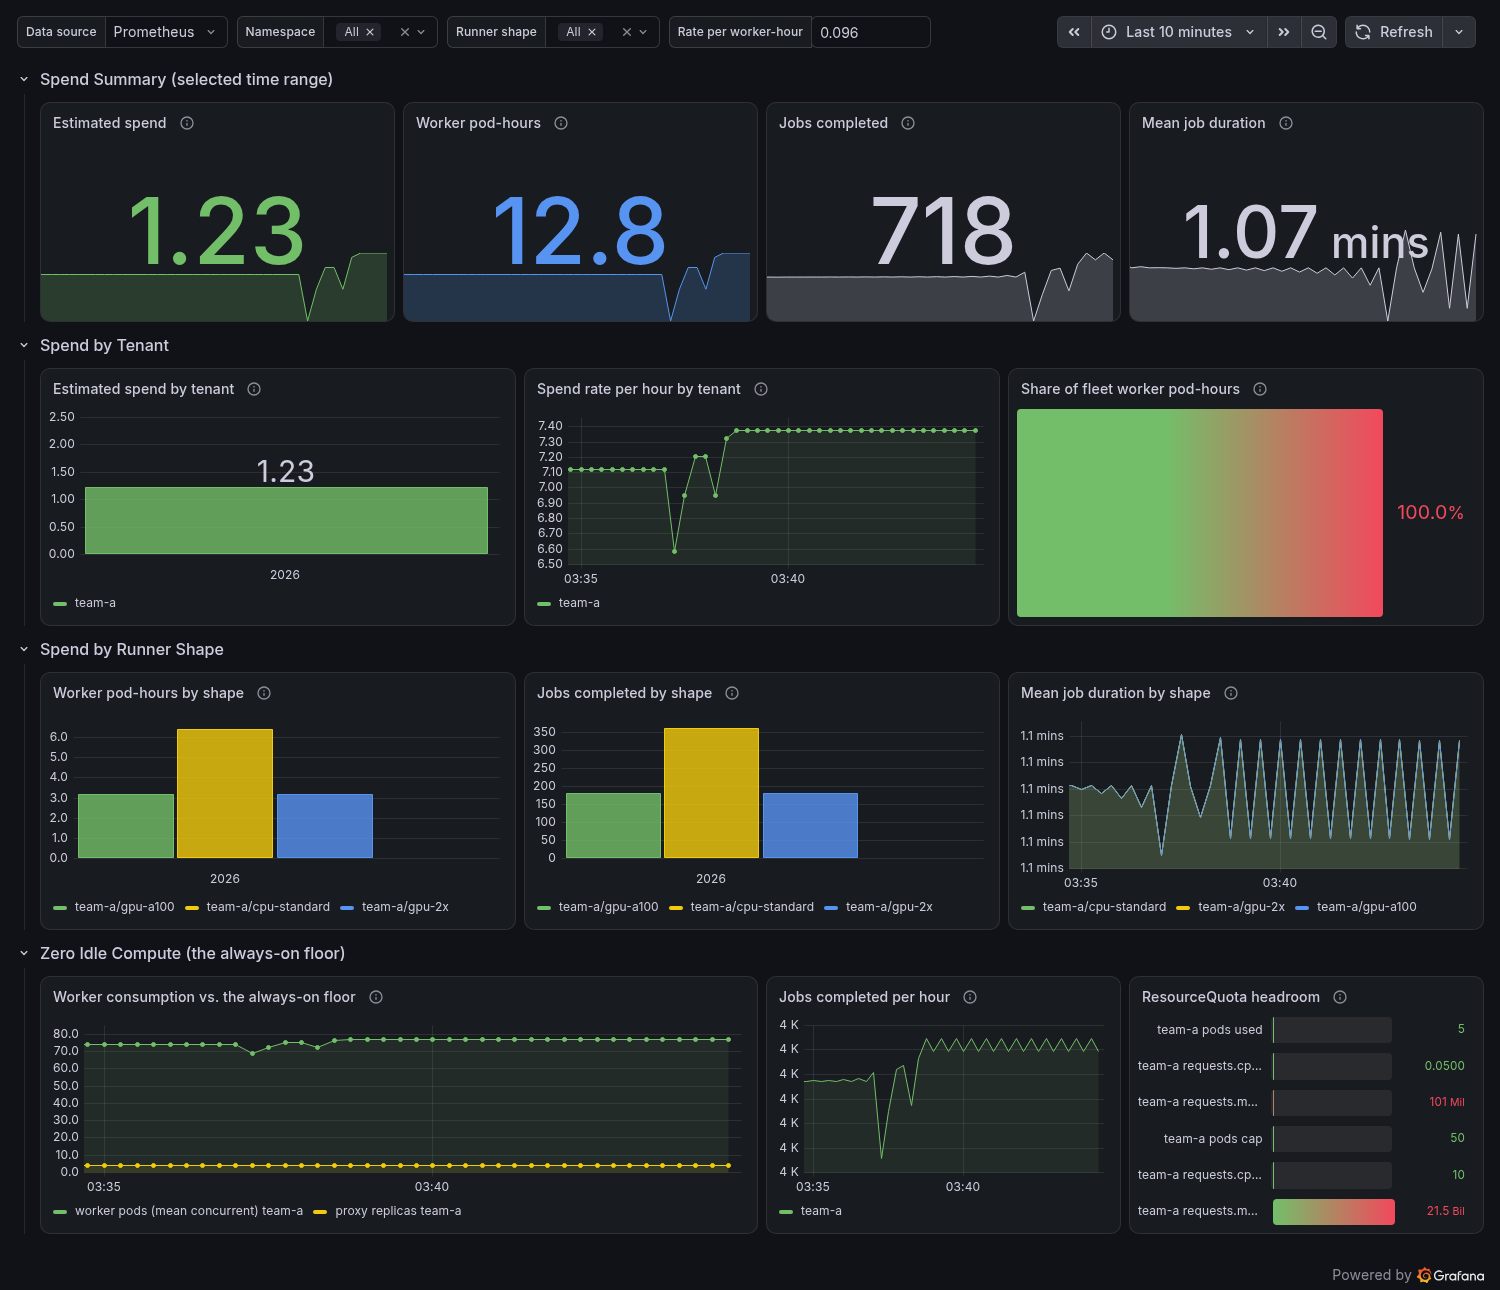
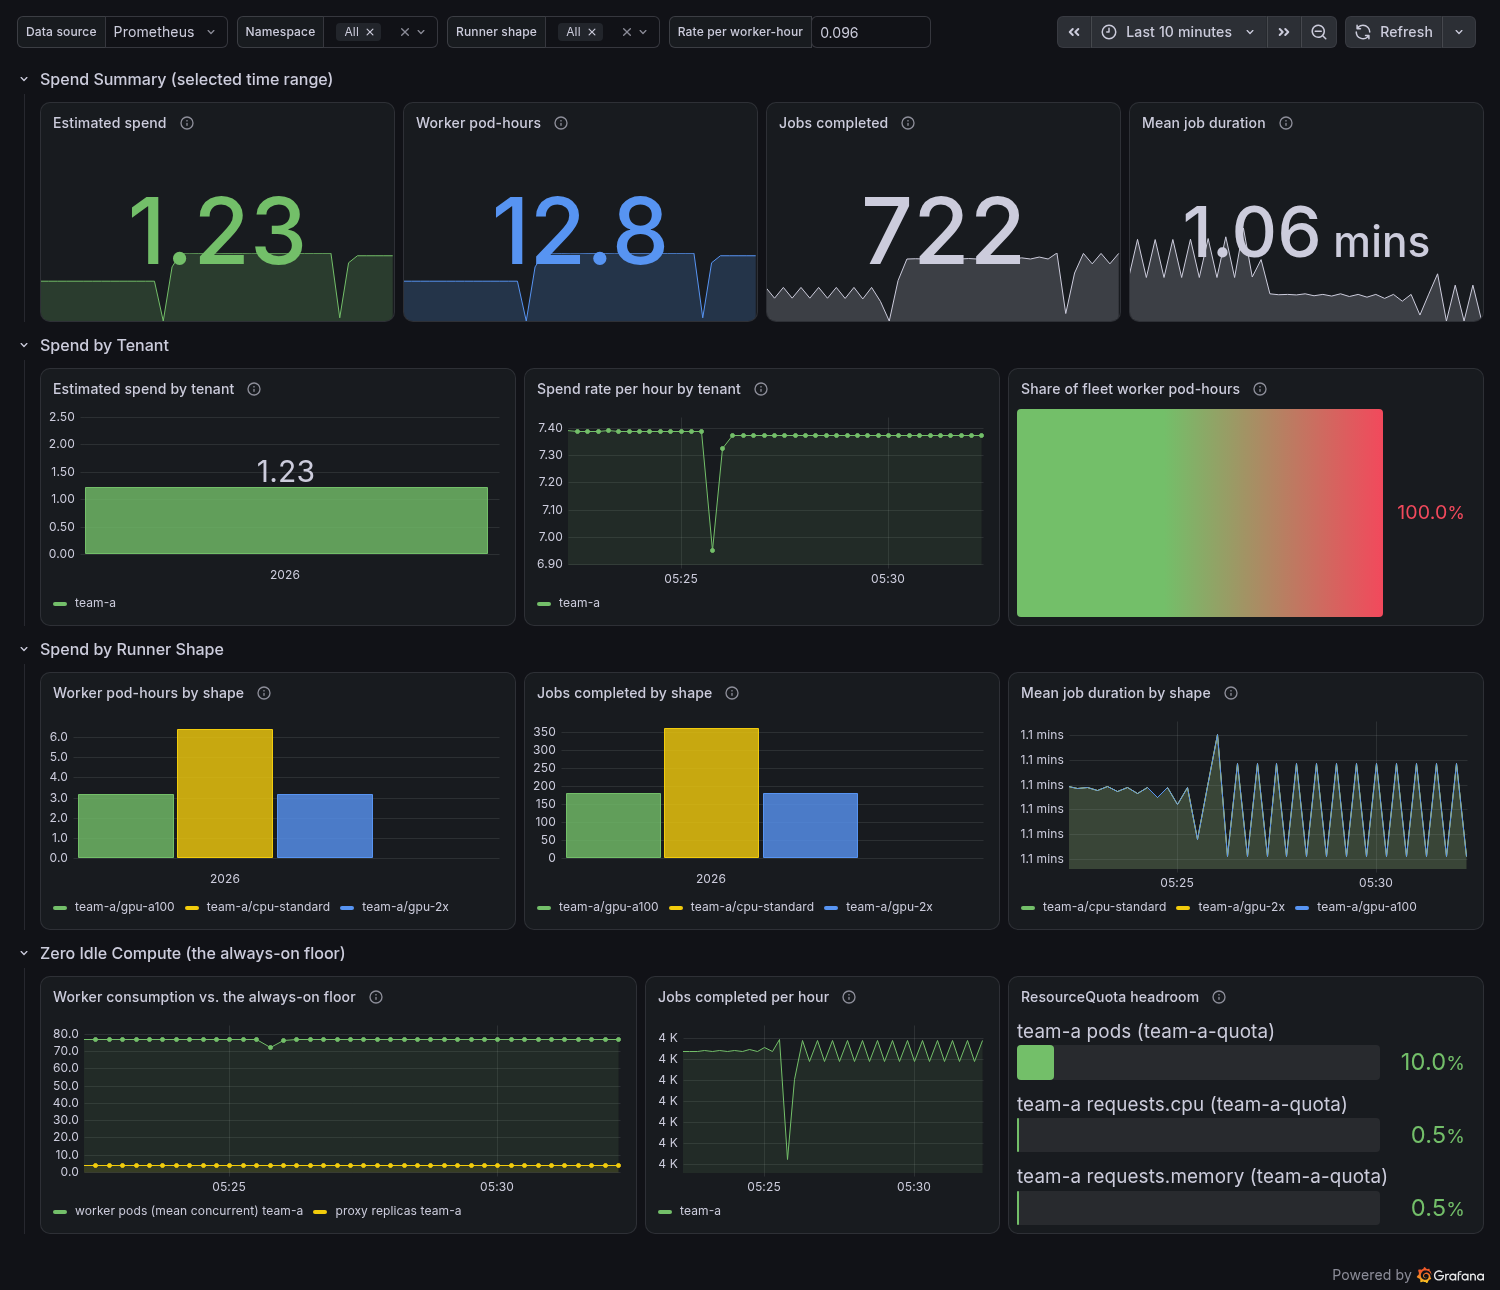
fix(monitoring): make the quota panel readable and the variable pass correct
Review findings on the budget dashboard.

The ResourceQuota panel put six series on one linear axis: pods, cores
and bytes together, used and cap together. Measured live, used
{5, 0.05, 100663296} against hard {50, 10, 21474836480}, so five of six
bars were hairlines and the only filled bar was a cap rather than a
usage. It is now one ratio in percent, min 0, max 100, thresholds at
75/90, and the doc sentence describes what it shows.

The join is ignoring(type), not on(namespace, resource). The latter
collapses the resourcequota label, so a namespace holding two
ResourceQuota objects makes the right-hand side ambiguous and the panel
errors outright; measured on a two-quota namespace, on(...) returns
'found duplicate series for the match group' where ignoring(type)
returns one series per quota object. Keeping that label is also why the
legend names it: without it two quota objects render two bars both
reading '<ns> pods'. Panel widened 6->8 to fit the longer legend, taking
the columns from the worker-vs-floor panel; every row still sums to 24.

Over quota reads above 100 rather than erroring: measured 200% on a
namespace with two pods under a pods=1 quota, so max=100 clips the bar
full and red rather than suppressing the signal.

promqlcheck: the undeclared-variable finding was firing on Grafana's own
built-ins, which never appear in templating.list and never need to, so
it named a cause that cannot be true and invited inventing a fake
[…]

diff --git a/devtools/monitoring/promqlcheck/main.go b/devtools/monitoring/promqlcheck/main.go
@@ -248,42 +248,84 @@ func checkDashboard(path string, raw []byte) ([]string, int, error) {
 // grafanaVar matches one variable reference in either spelling Grafana accepts.
 var grafanaVar = regexp.MustCompile(`\$(?:\{(\w+)\}|(\w+))`)
 
-// builtinVars are Grafana's own interval and range variables. Each expands to a
-// duration at render time and is only ever written in a range selector, which is
-// syntactic position, so each needs a stand-in to parse. The value is arbitrary:
-// the check is that the surrounding expression is well formed, not that the
-// window is a particular length.
-var builtinVars = map[string]string{
+// builtinDurations are the Grafana built-ins that expand to a duration. Each is
+// written in a range selector, which is syntactic position, so each needs a
+// stand-in to parse. The value is arbitrary: the check is that the surrounding
+// expression is well formed, not that the window is a particular length.
+//
+// Every other `__`-prefixed name is a built-in too — `$__interval_ms`, `$__from`,
+// `$__to` and friends expand to a number, and appear in idioms like
+// `rate(x[$__interval]) * $__interval_ms / 1000`. They parse where they are
+// written, so they need no stand-in; what they need is exemption from the
+// undeclared-variable finding, since Grafana supplies them and no dashboard
+// declares them in templating.list.
+var builtinDurations = map[string]string{
 	"__range":         "5m",
 	"__interval":      "5m",
 	"__rate_interval": "5m",
 }
 
+// isBuiltin reports whether name is supplied by Grafana rather than by the
+// dashboard. The `__` prefix is Grafana's own reserved namespace, so this stays
+// correct as they add more, which a fixed list would not.
+func isBuiltin(name string) bool { return strings.HasPrefix(name, "__") }
+
 // dashboardVars returns the substitutions a dashboard's own templating declares,
 // and the set of every name it declares at all.
 //
-// The two differ, and the gap is the point: a textbox or constant carries a
-// literal that reaches scalar position and must be substituted, while a query
-// variable resolves to a label value and parses as written. Both are declared, so
-// both are exempt from the undeclared-variable finding; only the first is
-// rewritten.
+// The two differ, and the gap is the point: the literal-valued types reach scalar
+// or range position and must be substituted, while a query variable resolves to a
+// label value and parses as written. Both are declared, so both are exempt from
+// the undeclared-variable finding; only the first is rewritten.
+//
+// `interval` is the one worth naming: it exists to fill a range selector, so it is
+// what a dashboard needing a variable window reaches for first. Its value and
+// `custom`'s are comma-separated option lists, and Grafana defaults to the first,
+// so that is what stands in.
 func dashboardVars(d dashboard) (map[string]string, map[string]bool) {
-	vars := make(map[string]string, len(builtinVars))
-	for k, v := range builtinVars {
+	vars := make(map[string]string, len(builtinDurations))
+	for k, v := range builtinDurations {
 		vars[k] = v
 	}
 	declared := make(map[string]bool, len(d.Templating.List))
 	for _, v := range d.Templating.List {
 		declared[v.Name] = true
-		if v.Type != "textbox" && v.Type != "constant" {
+		if !literalVarTypes[v.Type] {
 			continue
 		}
-		var literal string
-		if json.Unmarshal(v.Query, &literal) == nil && literal != "" {
+		if literal := firstOption(v.Query); literal != "" {
 			vars[v.Name] = literal
 		}
 	}
 	return vars, declared
+}
+
+// literalVarTypes are the templating types whose value is a literal the
+// expression needs, rather than a label value it already parses as.
+var literalVarTypes = map[string]bool{
+	"textbox":  true,
+	"constant": true,
+	"custom":   true,
+	"interval": true,
+}
+
+// firstOption reads a template variable's default out of the two shapes Grafana
+// writes it in — a bare string, or an object carrying its own `query` key — and
+// takes the first entry of a comma-separated option list, which is what Grafana
+// selects when nothing else is stored.
+func firstOption(raw json.RawMessage) string {
+	var literal string
+	if json.Unmarshal(raw, &literal) != nil {
+		var obj struct {
+			Query string `json:"query"`
+		}
+		if json.Unmarshal(raw, &obj) != nil {
+			return ""
+		}
+		literal = obj.Query
+	}
+	first, _, _ := strings.Cut(literal, ",")
+	return strings.TrimSpace(first)
 }
 
 // substituteVars rewrites the variable references in expr with parse-valid
@@ -293,6 +335,13 @@ func dashboardVars(d dashboard) (map[string]string, map[string]bool) {
 // reaches the parser carrying it and fails there too. Substituting a default for
 // one would let a panel referencing a variable that does not exist parse clean
 // and then render an error, which is the state this whole check exists to catch.
+//
+// The match runs over the raw expression with no position awareness, so what it
+// detects is "a $word here we could not attribute" rather than strictly an
+// undeclared variable: a literal `$` inside a quoted label value is reported too.
+// That is the intended trade. A misspelled variable lands inside a quoted matcher
+// (namespace=~"$namespaec"), which is precisely where the check has to reach, and
+// making it position-aware would exempt the case it exists for.
 func substituteVars(expr string, vars map[string]string, declared map[string]bool) (string, []string) {
 	var unknown []string
 	seen := map[string]bool{}
@@ -301,7 +350,7 @@ func substituteVars(expr string, vars map[string]string, declared map[string]boo
 		if v, ok := vars[name]; ok {
 			return v
 		}
-		if !declared[name] && !seen[name] {
+		if !declared[name] && !isBuiltin(name) && !seen[name] {
 			seen[name] = true
 			unknown = append(unknown, name)
 		}

diff --git a/devtools/monitoring/promqlcheck/main_test.go b/devtools/monitoring/promqlcheck/main_test.go
@@ -291,15 +291,70 @@ func TestDashboardVariablesAreSubstituted(t *testing.T) {
 
 // The substitution must not become a way for a malformed expression to pass: the
 // stand-in goes in, and what surrounds it still has to parse.
+//
+// Two things make the assertion real, and both were needed. It is on the error's
+// CONTENT, because an unsubstituted `$__range` also fails to parse and a test
+// accepting any error would pass with substitution removed entirely. And the
+// malformation is placed AFTER the variable: the parser reports its first error,
+// so a broken paren ahead of the variable is reported either way and the content
+// assertion cannot discriminate. Trailing parens put the variable first, so
+// removing the substitution changes the reported error to `'$'` and this fails.
 func TestSubstitutionStillParsesTheRest(t *testing.T) {
-	body := strings.Replace(varDashboard, "sum(increase(", "sum by ((((increase(", 1)
+	body := strings.Replace(varDashboard, `/ 3600 * $rate`, `/ 3600 * $rate))))`, 1)
 	findings, _ := runDashboard(t, body)
 	for _, f := range findings {
-		if strings.Contains(f, "expr does not parse") {
-			return
+		if !strings.Contains(f, "expr does not parse") {
+			continue
 		}
+		if strings.Contains(f, "'$'") {
+			t.Fatalf("the parse reached a variable, so substitution did not run: %s", f)
+		}
+		return
 	}
 	t.Fatalf("a malformed expression around a substituted variable should still fail; got %v", findings)
+}
+
+// Grafana supplies the `__`-prefixed variables and no dashboard declares them, so
+// reporting one as undeclared names a cause that cannot be true and invites the
+// repair of inventing a templating entry to satisfy the gate. The numeric ones
+// need no stand-in: they parse where they are written.
+func TestGrafanaBuiltinsAreNotReportedUndeclared(t *testing.T) {
+	for _, expr := range []string{
+		`rate(thing_total[$__interval]) * $__interval_ms / 1000`,
+		`sum(thing_total{from="$__from",to="$__to"})`,
+		`sum(increase(thing_total[$__range])) / $__range_s`,
+	} {
+		t.Run(expr, func(t *testing.T) {
+			body := strings.Replace(varDashboard,
+				`sum(increase(thing_seconds_sum{namespace=~"$namespace"}[$__range])) / 3600 * $rate`,
+				strings.ReplaceAll(expr, `"`, `"`), 1)
+			findings, _ := runDashboard(t, body)
+			if len(findings) != 0 {
+				t.Fatalf("a Grafana built-in should be clean, got %v", findings)
+			}
+		})
+	}
+}
+
+// interval is the type a dashboard reaches for when it wants a variable window,
+// and custom is its scalar sibling; both store a comma-separated option list that
+// Grafana defaults to the first of. constant is spelled two ways, a bare string
+// and an object carrying its own query key.
+func TestLiteralVariableTypesAreSubstituted(t *testing.T) {
+	for name, tc := range map[string]struct{ decl, expr string }{
+		"interval":        {`{"name":"iv","type":"interval","query":"1m,5m,1h"}`, `rate(thing_total[$iv])`},
+		"custom":          {`{"name":"cv","type":"custom","query":"0.096,0.048"}`, `sum(thing_total) * $cv`},
+		"constant object": {`{"name":"kv","type":"constant","query":{"query":"0.5"}}`, `sum(thing_total) * $kv`},
+	} {
+		t.Run(name, func(t *testing.T) {
+			body := `{"title":"T","templating":{"list":[` + tc.decl + `]},` +
+				`"panels":[{"title":"P","targets":[{"refId":"A","expr":"` + tc.expr + `"}]}]}`
+			findings, _ := runDashboard(t, body)
+			if len(findings) != 0 {
+				t.Fatalf("a declared literal variable should substitute, got %v", findings)
+			}
+		})
+	}
 }
 
 // A variable the dashboard declares nowhere is the defect the substitution could

diff --git a/docs/operations/observability-dashboards.md b/docs/operations/observability-dashboards.md
@@ -180,6 +180,7 @@ The GMC comes from this dashboard's own scrape; `agc` and `proxy` need the per-t
 
 For the [budget owner](personas.md#budget-owner), who owns the spend and usually cannot read the cluster at all.
 Filtered by `$namespace` and `$runner_group`, and priced by a `$rate` textbox.
+It ships with auto-refresh **off**, where the other two use `30s`: the default window is seven days, and a spend figure over that range does not change meaningfully between two thirty-second polls.
 
 Every panel reads one metric: `actions_gateway_job_duration_seconds`.
 That series is worker pod wall time (creation to the last container finishing) on **both** acquisition tiers, which is the span [Appendix F §F.1](../design/appendix-f-cost-model.md#worker-pod-dominant-cost) bills against.
@@ -205,6 +206,10 @@ Every panel here uses `$__range`, so the time picker *is* the billing window: sw
 
 **Row 2 — Spend by Tenant**
 
+> **The comparison panels run instant queries**, which is where this dashboard departs from its two neighbours.
+> They are both panels in this row, both bar charts in Row 3, and the bar gauge in Row 4: each reduces the whole range to one number per tenant or per resource, so a range query would plot one bar per scrape and the comparison the panel exists to make would be unreadable.
+> The time-series panels stay range queries, because a trend is what they are for.
+
 | Panel | Query | Visualization |
 |-------|-------|---------------|
 | Estimated spend by tenant | `sum by (namespace) (increase(actions_gateway_job_duration_seconds_sum[$__range])) / 3600 * $rate` | Bar chart, **instant**. Namespace is tenant, which is why this lines up with an `aggregate=namespace` allocation report with no extra wiring |
@@ -218,23 +223,19 @@ A shape here is therefore whatever provisioned the worker, on either protocol.
 
 | Panel | Query | Visualization |
 |-------|-------|---------------|
-| Worker pod-hours by shape | `sum by (namespace, runner_group) (increase(actions_gateway_job_duration_seconds_sum[$__range])) / 3600` | Bar chart. Hours rather than currency, per the rate spread above |
-| Jobs completed by shape | the `…_count` counterpart | Bar chart. Beside the pod-hours bars it separates the two ways a shape's spend grows: more jobs, or slower jobs |
+| Worker pod-hours by shape | `sum by (namespace, runner_group) (increase(actions_gateway_job_duration_seconds_sum[$__range])) / 3600` | Bar chart, **instant**. Hours rather than currency, per the rate spread above |
+| Jobs completed by shape | the `…_count` counterpart | Bar chart, **instant**. Beside the pod-hours bars it separates the two ways a shape's spend grows: more jobs, or slower jobs |
 | Mean job duration by shape | `rate(…_sum[5m]) / rate(…_count[5m])`, both `sum by (namespace, runner_group)` | Time series. A shape drifting upward buys less for the same money; a large divergence from a cost tool's pod-hours for that shape usually means oversized resource requests ([right-sizing](../design/appendix-f-cost-model.md#worker-resource-right-sizing)) |
 
 **Row 4 — Zero Idle Compute (the always-on floor)**
 
 The row that answers "what am I paying for when nobody is running CI?".
 
-> **The comparison panels run instant queries**, which is where this dashboard departs from its two neighbours.
-> A bar chart or bar gauge here reduces the whole range to one number per tenant or per shape, so a range query would plot one bar per scrape and the comparison the panel exists to make would be unreadable.
-> The time-series panels stay range queries, because a trend is what they are for.
-
 | Panel | Query | Visualization |
 |-------|-------|---------------|
-| Worker consumption vs. the always-on floor | `sum by (namespace) (rate(actions_gateway_job_duration_seconds_sum[5m]))` against `kube_deployment_status_replicas_ready{deployment="actions-gateway-proxy"}` | Time series, two series on one panel deliberately. Over a quiet weekend the worker line collapses toward zero while the proxy line stays flat, and that flat line is the entire idle floor. An Actions Runner Controller (ARC) scale set holding `minRunners > 0` would show a worker line that never reaches zero. Needs kube-state-metrics |
+| Worker consumption vs. the always-on floor | `sum by (namespace) (rate(actions_gateway_job_duration_seconds_sum[5m]))` against `kube_deployment_status_replicas_ready{deployment="actions-gateway-proxy"}` | Time series, two series on one panel deliberately. Over a quiet weekend the worker line collapses toward zero while the proxy line stays flat, and that flat line is the entire idle floor. An Actions Runner Controller (ARC) scale set holding `minRunners > 0` would show a worker line that never reaches zero. The worker series comes from the duration histogram, which attributes a pod's whole lifetime at completion, so it is a trailing average over the rate window rather than a live pod count: it will not equal the pod count behind the quota panel beside it. Needs kube-state-metrics |
 | Jobs completed per hour | `sum by (namespace) (rate(actions_gateway_job_duration_seconds_count[5m])) * 3600` | Time series showing the volume that drives the worker line beside it |
-| ResourceQuota headroom | `kube_resourcequota{type="used"}` and its `type="hard"` counterpart | Bar gauge, a used bar beside its cap. A tenant pinned at its quota is one whose spend is held down by the cap rather than by demand, which is a budget conversation rather than an incident. Needs kube-state-metrics |
+| ResourceQuota headroom | `100 * kube_resourcequota{type="used"} / ignoring(type) kube_resourcequota{type="hard"}` | Bar gauge, `percent`, one bar per quota object and resource. A tenant sitting near 100% is one whose spend is held down by the cap rather than by demand, which is a budget conversation rather than an incident. The join is `ignoring(type)` rather than `on(namespace, resource)`, which errors on a namespace holding two `ResourceQuota` objects; it also keeps the `resourcequota` label, which is why the legend names it. Over quota reads above 100% and clips the bar full and red. Needs kube-state-metrics |
 
 ## Dashboard Variables
 
